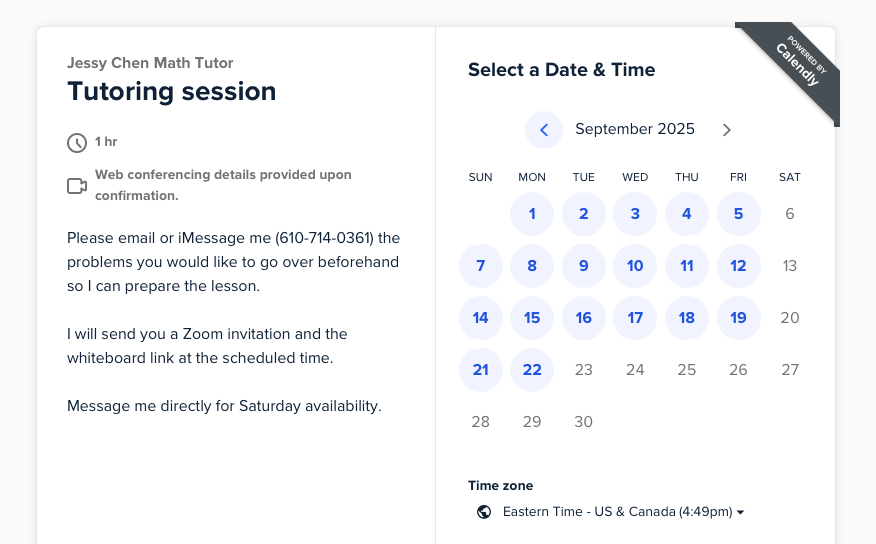
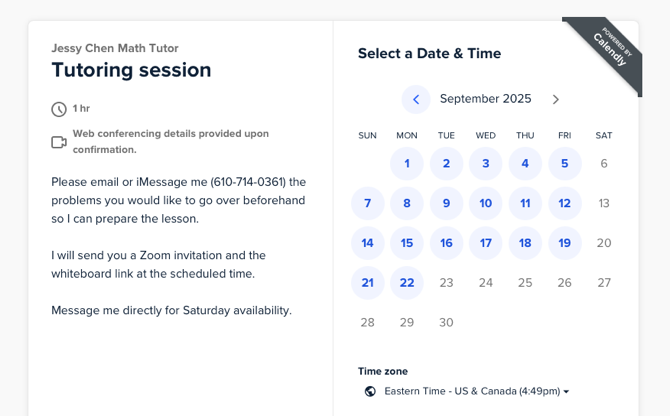
Major image optimization: resize all images for 2x retina displays
- Resized laptop.png: 1764x1048 → 742x440 (saved 104KB, 38% reduction)
- Resized step1.png: 876x544 → 670x416 (optimized for display size)
- Resized step2.jpeg: 1125x1494 → 450x598 (saved 50KB, 51% reduction)
- Resized step3.png: maintained 670x500 (already optimized)
- Resized step4.png: 985x561 → 670x382 (saved 45KB, 38% reduction)
- Updated HTML dimensions to prevent layout shift
- Total savings: ~202KB while maintaining retina quality
- Expected PageSpeed improvement: +10-20 points

Changed region(s): [[0.209, 0.1562, 0.2687, 0.1875], [0.7463, 0.2188, 0.7761, 0.25], [0.1194, 0.1562, 0.1493, 0.1875]]

diff --git a/index.html b/index.html
@@ -125,7 +125,7 @@ function gtag_report_conversion(url) {
     </div>
 
     <div class="overlap-image-container">
-        <img src="laptop.png" alt="Overlap Image" class="overlap-image" width="1764" height="1048" style="height: auto;">
+        <img src="laptop.png" alt="Overlap Image" class="overlap-image" width="742" height="440" style="height: auto;">
       
       
     </div>
@@ -141,12 +141,12 @@ function gtag_report_conversion(url) {
                 <p>Students find an opening on my calendar or set up a regular meeting time. Available evenings and weekends.</p>
             </div>
             <div class="step-image">
-                <img src="step1.png" alt="Step 1 Image" loading="lazy" width="876" height="544">
+                <img src="step1.png" alt="Step 1 Image" loading="lazy" width="670" height="416">
             </div>
         </div>
         <div class="step">
             <div class="step-image">
-                <img src="step2.jpeg" alt="Step 2 - Send homework problems" id="text" loading="lazy" width="1125" height="1494">
+                <img src="step2.jpeg" alt="Step 2 - Send homework problems" id="text" loading="lazy" width="450" height="598">
             </div>
             <div class="step-content">
                 <h3>Send me the problems</h3>
@@ -159,12 +159,12 @@ function gtag_report_conversion(url) {
                 <p>I give students a call on Zoom and send them the whiteboard link to start the session.</p>
             </div>
             <div class="step-image">
-                <img src="step3.png" alt="Step 3 Image" loading="lazy" width="670" height="501">
+                <img src="step3.png" alt="Step 3 Image" loading="lazy" width="670" height="500">
             </div>
         </div>
         <div class="step">
             <div class="step-image shadow">
-                <img src="step4.png" alt="Step 4 Image" loading="lazy" width="985" height="561">
+                <img src="step4.png" alt="Step 4 Image" loading="lazy" width="670" height="382">
             </div>
             <div class="step-content">
                 <h3>Rewatch Tutoring Sessions</h3>
